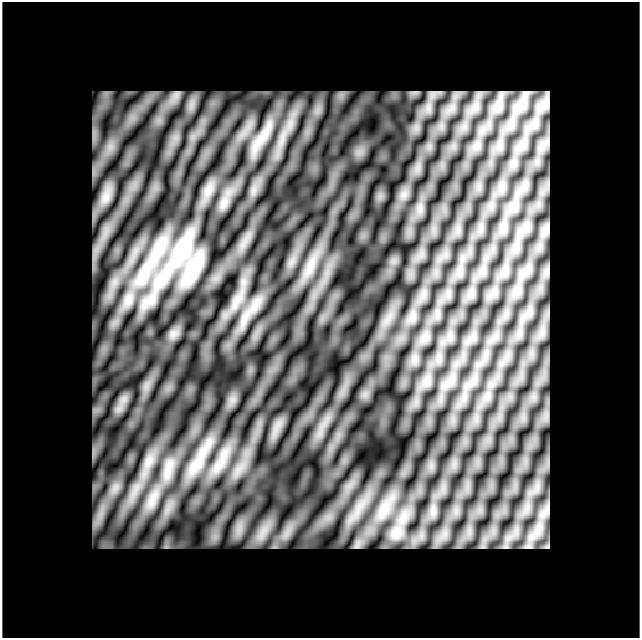
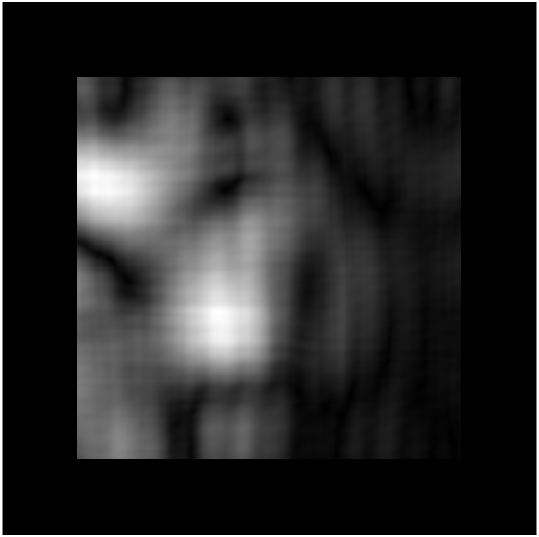
problem 4

diff --git a/project4/main_4.m b/project4/main_4.m
@@ -21,12 +21,12 @@ clear;
 clc;
 
 % Parameters initialization
-F = 0.063;
-theta = 60;
-sigma = 36;
+F = 0.6038;
+theta = -50.5;
+sigma = 8;
 range = 2;
 
-I = imread('d9d77.gif');
+I = imread('d4d29.gif');
 %img=ones(size(I));
 img=double(I);
 % for i=1:size(I,1)
